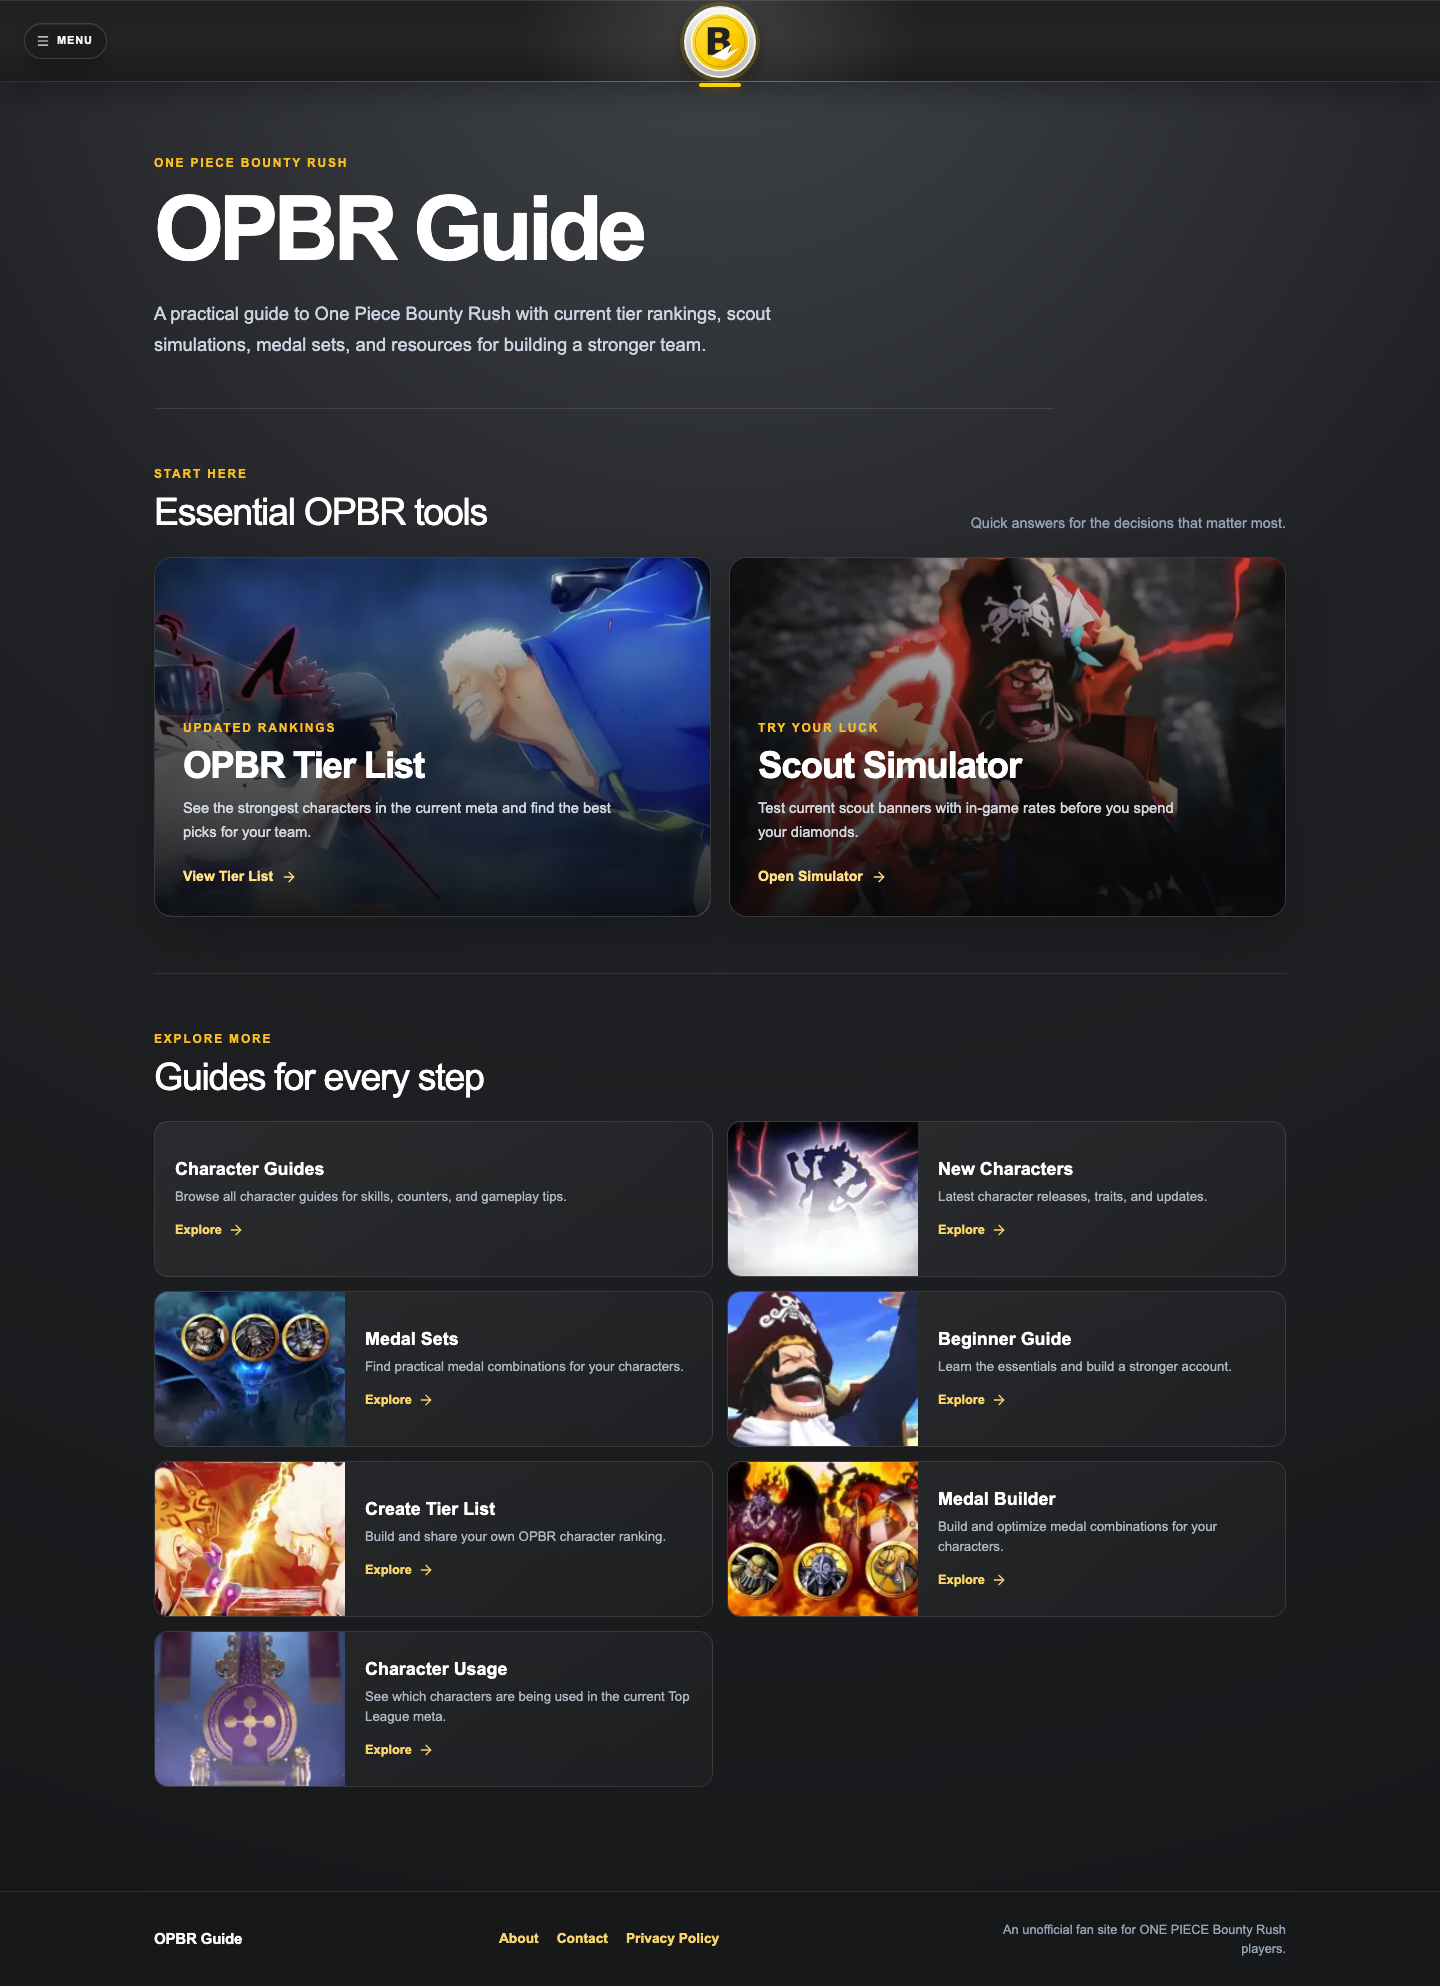
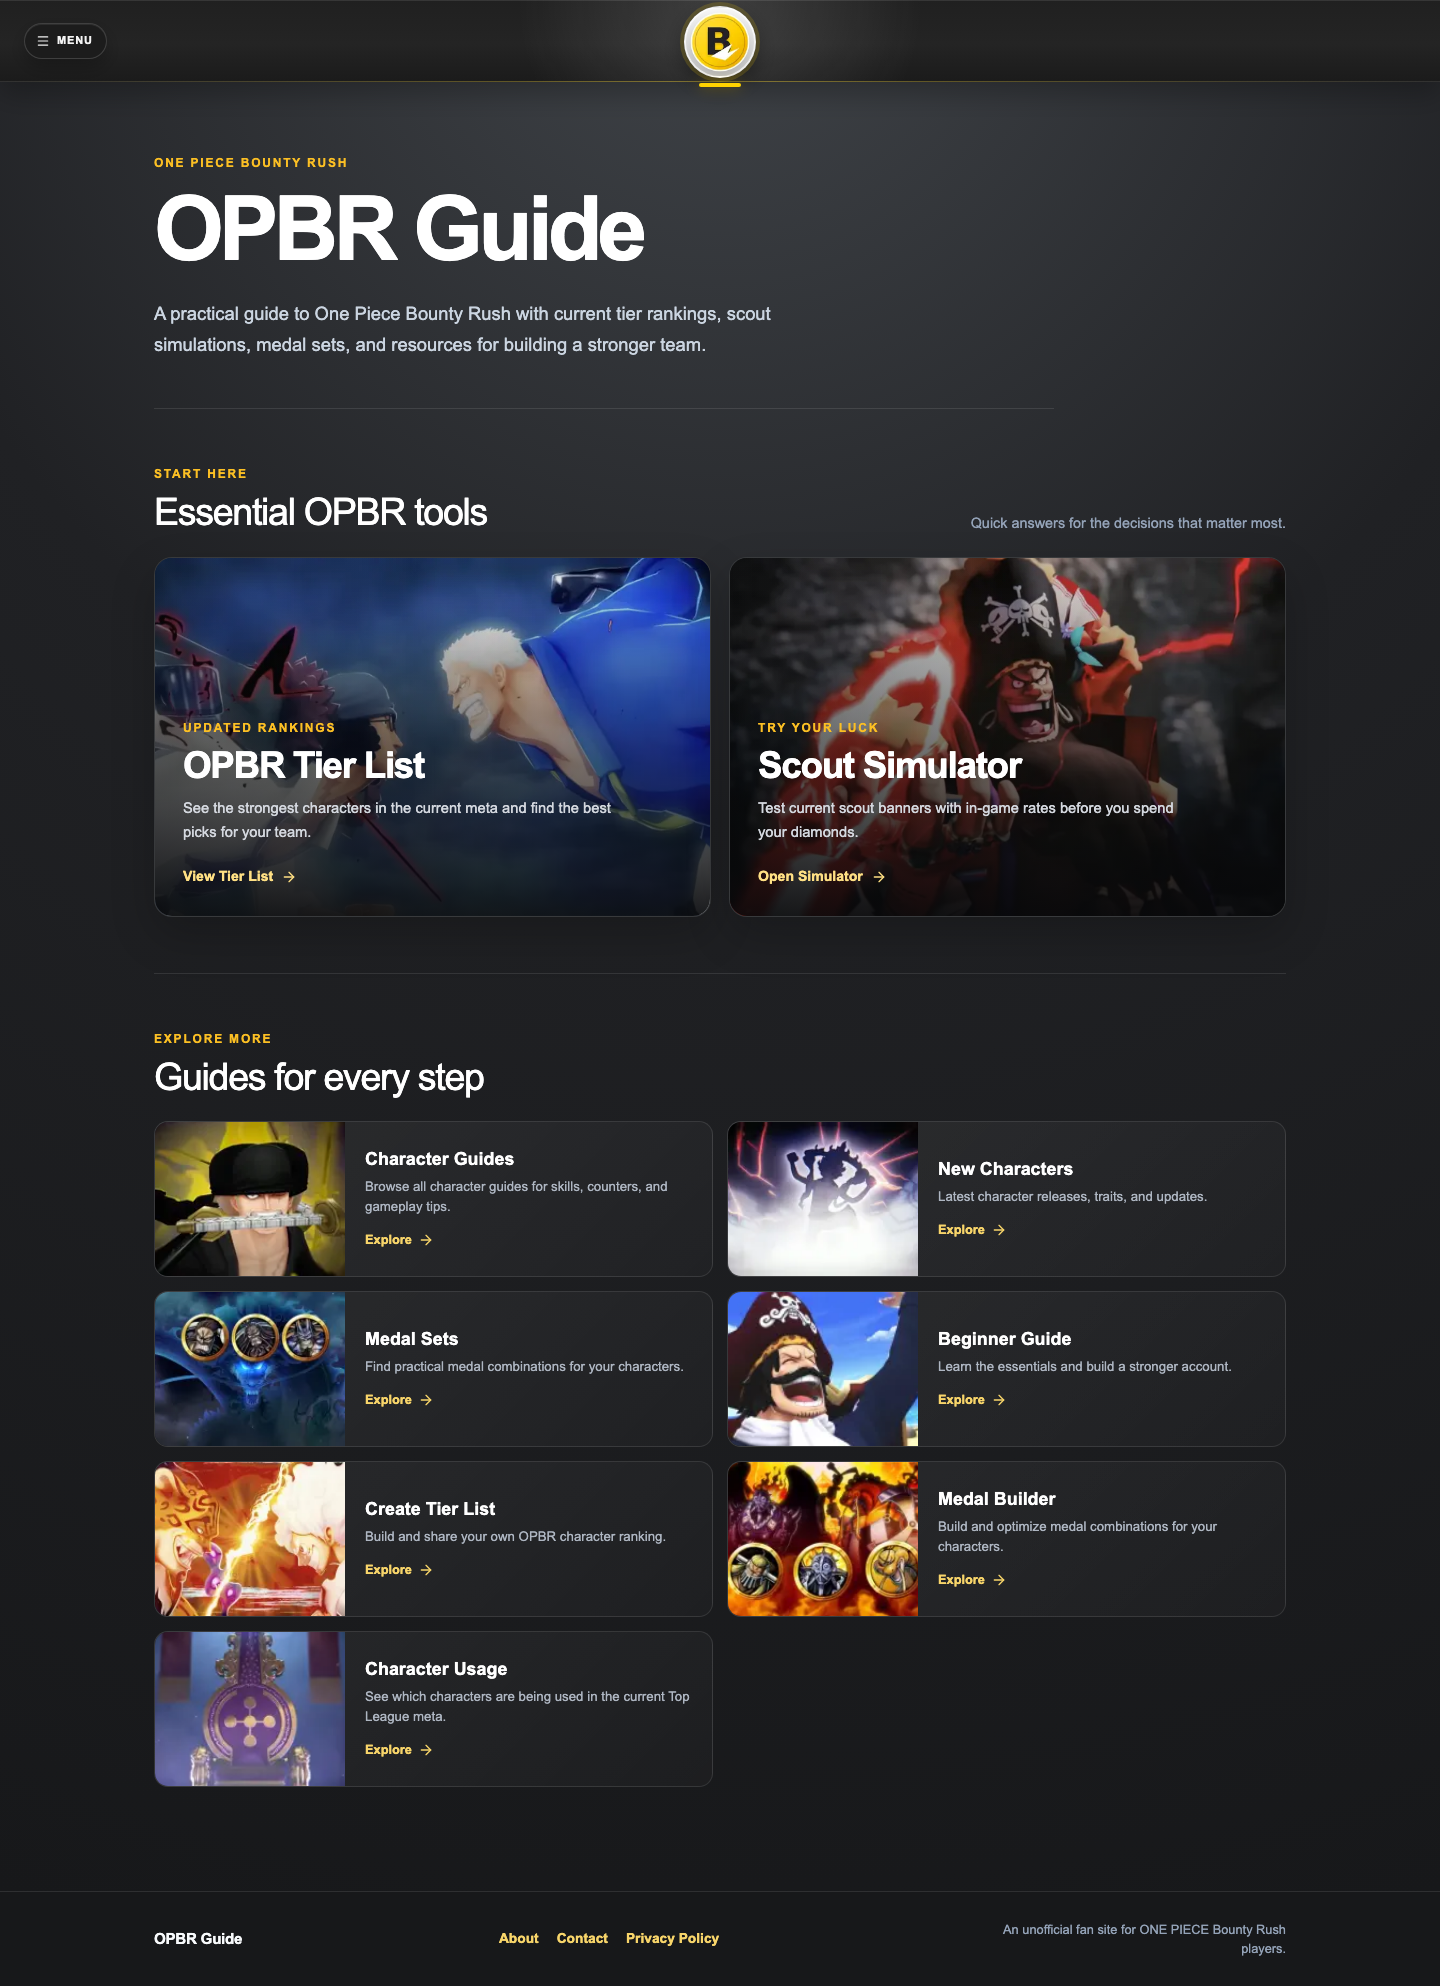
Use supplied artwork for Home Character Guides entry

Changed region(s): [[0.0938, 0.5619, 0.4062, 0.6556]]

diff --git a/src/app/(mainPages)/page.tsx b/src/app/(mainPages)/page.tsx
@@ -31,8 +31,7 @@ const exploreCards = [
     title: "Character Guides",
     description: "Browse all character guides for skills, counters, and gameplay tips.",
     href: "/character-guides",
-    // Set to "/home/character-guides.webp" once the supplied artwork is added.
-    image: null as string | null,
+    image: "/home/character-guides.png",
   },
   {
     title: "New Characters",

diff --git a/docs/character-guides-qa/README.md b/docs/character-guides-qa/README.md
@@ -18,7 +18,7 @@ Home, the shared Menu, and New Characters link to the directory. Existing indivi
 
 ## Home image replacement
 
-Place the supplied artwork in `public/home/character-guides.webp` and replace `image: null as string | null` with `image: "/home/character-guides.webp"` in the **Character Guides** item of `src/app/(mainPages)/page.tsx`. The current card omits the image element and image area. A supplied image automatically uses the existing Home thumbnail layout; no generated or external artwork was added. Keep the empty alt for decorative artwork already described by the card text, or add a meaningful `alt` if the artwork supplies distinct information.
+The supplied original PNG is now saved unchanged as `public/home/character-guides.png` (2048×1146px, 1,268,161 bytes). The Character Guides entry in `src/app/(mainPages)/page.tsx` points to `/home/character-guides.png`. To replace it later, replace that asset or update this one image path. The image uses the existing positioned `fill` thumbnail with central `object-fit: cover`; no card CSS or object-position override was needed. Empty alt remains appropriate for decorative artwork next to the already named Character Guides link. The original bytes remain preserved; Next Image handles browser delivery optimization without replacing the PNG.
 
 ## Validation
 
@@ -26,7 +26,7 @@ Place the supplied artwork in `public/home/character-guides.webp` and replace `i
 - `node node_modules/typescript/bin/tsc --noEmit --incremental false`: pass; production build also passed TypeScript.
 - `npm test`: 17/17 pass, including registry completeness, post-expiry availability, real summary projection, empty registry, name search/combined filters, and a newly registered alternate version.
 - `npm run build`: pass, Webpack / Next.js 16.3.4, 71 generated pages, `/character-guides` statically rendered. Existing Inter download uses the network. Logs saved alongside screenshots.
-- `TEST_BASE_URL=http://127.0.0.1:3203 npm run test:http`: 6/6 pass, covering all published routes, canonical/title/headings, 404/noindex, exact sitemap, registry links and real data, and Home/New Characters entry points.
+- `TEST_BASE_URL=http://127.0.0.1:3203 npm run test:http`: 6/6 pass, covering all published routes, canonical/title/headings, 404/noindex, exact sitemap, registry links and real data, Home/New Characters entry points, and the supplied PNG 200 response/MIME/original byte count.
 - Production Chromium: 1440, 390, and 320px. Verified exact card coverage, full names, generated filter options and shared rarity labels, four-control combined/no-results/reset paths, every guide link, keyboard Tab/Enter/focus rings, Menu/Home entries, all existing Home links, image loading/alt/reserved dimensions, and no horizontal overflow. Expired Mars remains in the directory while absent from New Characters at the October 2 verification date.
 - Read-only local fixtures rendered the actual directory component/CSS with zero entries and 24 distinct versions including a very long unbroken name. Verified zero-state UI, unique links, no horizontal overflow at 320px, and 21 lazy portraits after the first three. Fixture data was never registered or published. Fixtures cover layout/SSR; interactive filtering is tested against real production data.
 - JS runtime and relevant route/image assets: pass. The existing shared Vercel Analytics inclusion requests `/_vercel/insights/script.js` and returns 404 on the local production server. Those 18 console resource messages are recorded separately in `browser-results.txt`; the existing `src/app/layout.tsx` and analytics integration are unchanged.
@@ -79,3 +79,15 @@ These are the Simulator's catalog grade categories. EX/BF/SP are retained as dis
 Validation on the final app code: lint/type/build pass; 17/17 core tests; 6/6 HTTP tests; production Chromium 320/390/1440px with name + element + role + rarity combinations, BF zero results, all-field clear/show-all, keyboard Tab/Enter/focus, and overflow checks. Isolated actual-component fixtures verify all ten CharacterFrame grade labels and the conditional Unclassified option. Live Simulator deterministic single pulls verify EX, BF, and 4★ badges, three pulls/fifteen diamonds, and Reset. Existing local Vercel Analytics script 404s remain separately recorded. Updated screenshots and logs in this folder correspond to this follow-up. Disk space remained about 11GiB.
 
 Follow-up source changes: `src/data/characters/grades.ts`; `src/components/character-frame/CharacterFrame.tsx` (label import only); `src/lib/character-guide-directory.ts`; directory `CharacterGuideDirectory.tsx` and `page.module.css`; core/HTTP/browser tests. Home, shared Header, sitemap, published guide registry/content, character IDs/grades, and Scout Simulator draw logic were not edited in this follow-up. Work stays on `feat/character-guides` at the same persistent sibling worktree. No push/PR/merge/deploy.
+
+## Supplied Home image follow-up (based on 4084c3045729019043cb342d5a3e0d8a8039be4e)
+
[1 lines of base64/hex data omitted]
+
+Only the Home entry image path changed in app source. Existing `fill`, empty decorative alt, lazy loading, sizes, `cover`, and central positioning were reused. At desktop the thumbnail is approximately 190×154px; at 320/390px it is approximately 116×132px. Those taller frames trim the image's sides as expected, while the central face and mouth-held sword remain visible. No common card redesign or card CSS adjustment was needed. Inspect `home-entry-1440.png`, `home-entry-390.png`, and `home-entry-320.png` for exact renders; full Home screenshots were refreshed as well.
+
+Final checks: lint/type/build pass, core 17/17 and HTTP 6/6 pass. HTTP verifies original PNG 200, image/png, and 1,268,161 bytes. Production Chromium checks optimized image loading/natural dimensions, its exact asset path, Home-to-directory navigation at all three widths, all existing Home links, and no horizontal overflow. Existing name/element/role/rarity combinations, zero/clear, keyboard operations, registry-only coverage, and Simulator EX/BF/4★ behavior still pass in the same browser regression. Image display snapshots were visually inspected at 1440/390/320px. Existing local Vercel Analytics 404s remain the only recorded unrelated resource messages. No remaining blockers.
+
+Changed application files: `public/home/character-guides.png` and `src/app/(mainPages)/page.tsx`. Existing HTTP/browser assertions were updated from the old image-free placeholder to the actual provided image; no new unrelated feature was added. Work remains on `feat/character-guides` in `/Users/sasakiryou/Desktop/OPBR/opbr-character-guides`. The original repo and other worktrees were not edited; the news branch was not merged. Future integration should preserve its Home news changes and use this Character Guides image path. No push/PR/merge/deploy.
+
+Preview: `http://127.0.0.1:3203/` (Home) and `/character-guides` (directory). The same restart instructions above apply. Free disk space was checked at about 12GiB before this follow-up.
